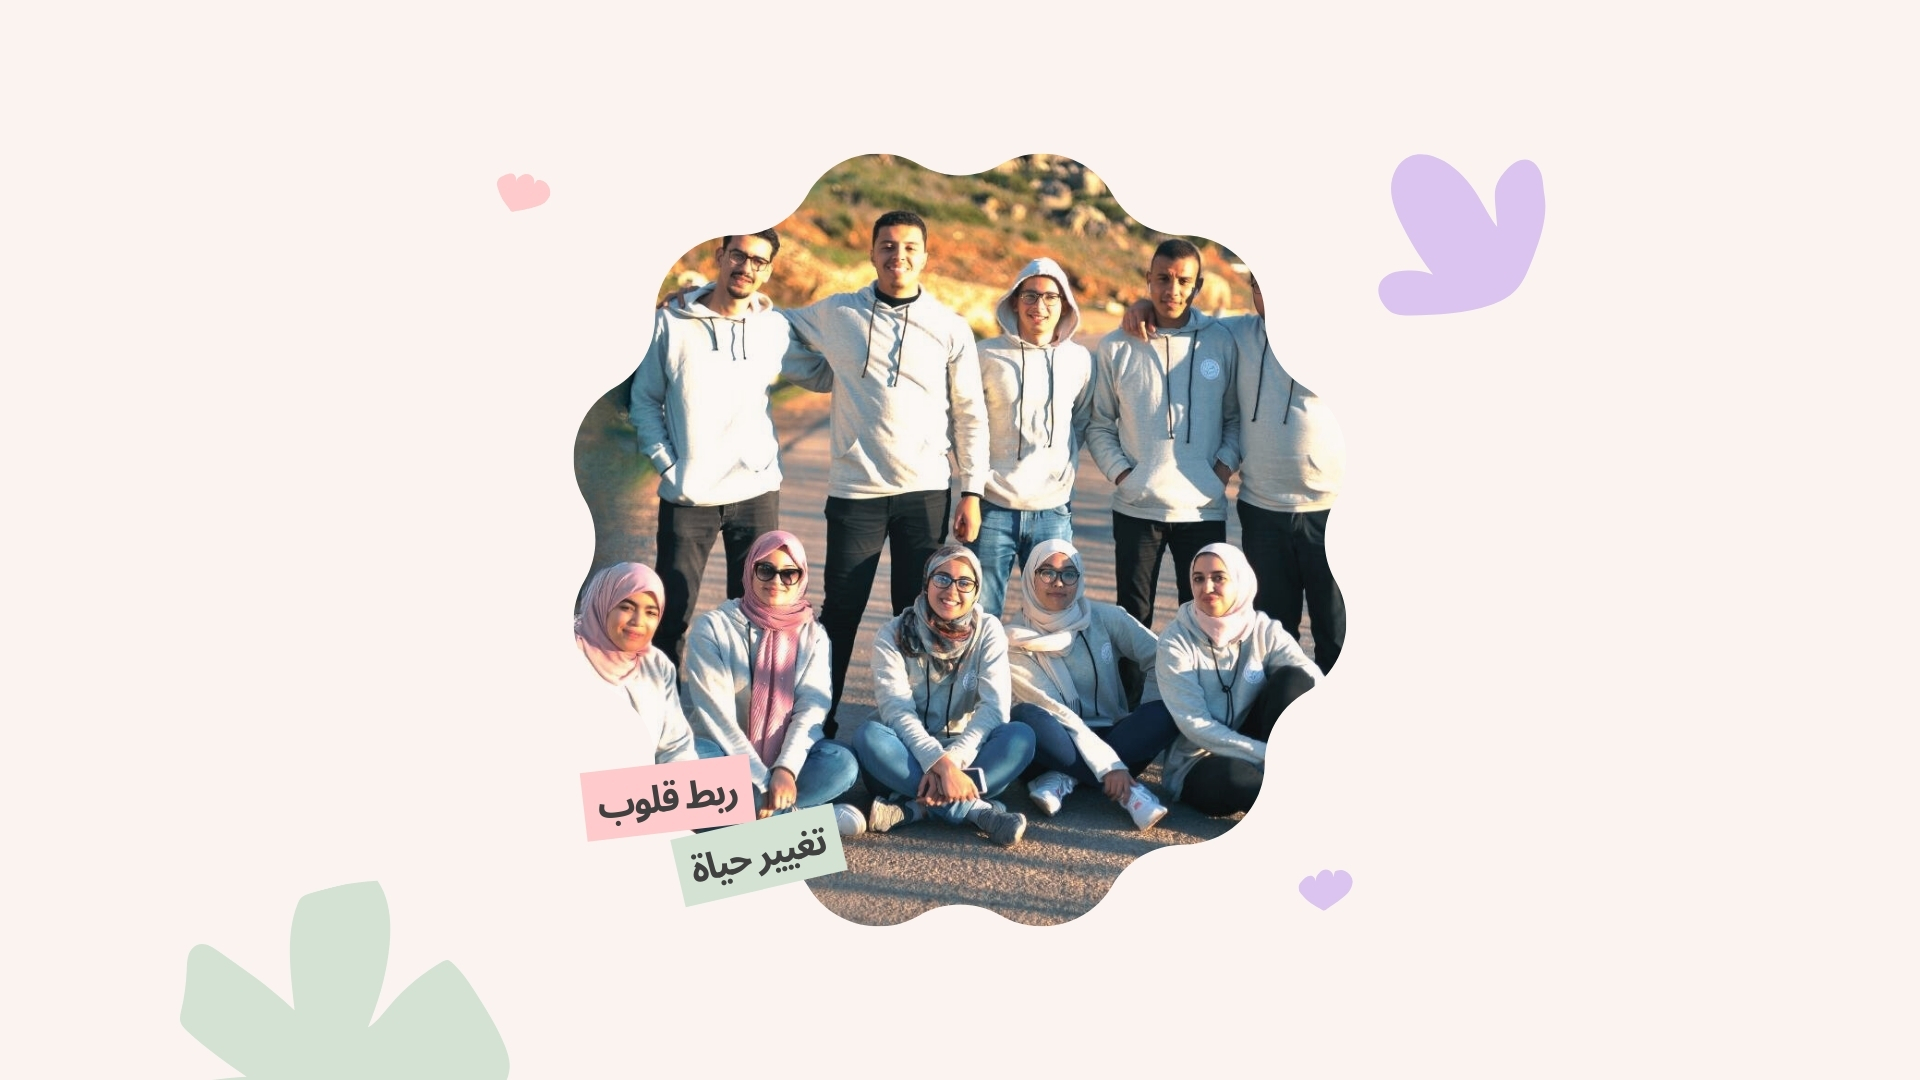
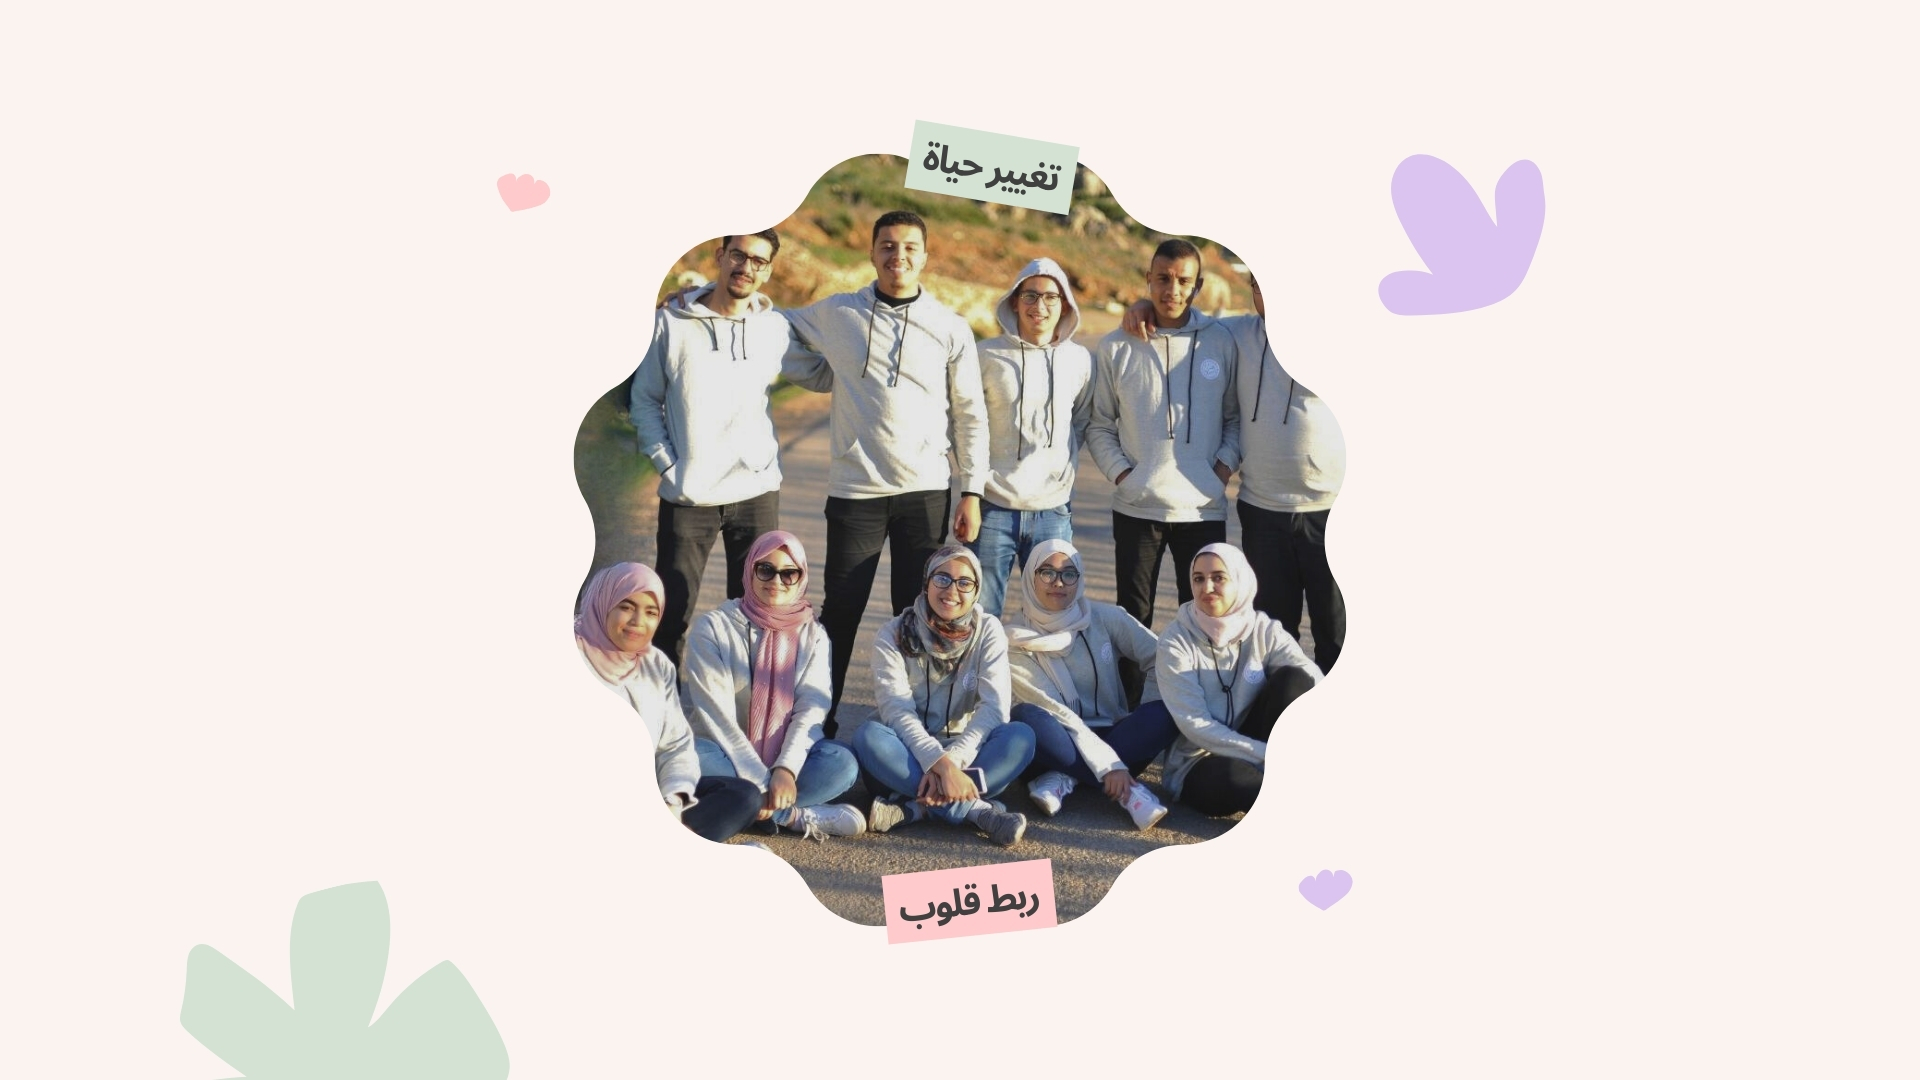
Update font + add padding to gallery images

diff --git a/_includes/portfolio.html b/_includes/portfolio.html
@@ -1,7 +1,7 @@
 <section class="no-padding" id="portfolio">
     <div class="container-fluid">
-        <div class="row no-gutter">
-            <div class="col-lg-4 col-sm-6">
+        <div class="row">
+            <div class="col-lg-4 col-sm-6 gallery-image-container">
                 <a href="https://www.facebook.com/Sonna3Basma/posts/pfbid0348vdYQ6Lno4S7W3ggTB5xWFRCWwVc4xgJLzH2PXQGdfaEcty7iMzVWdbjRrNmozRl" target="_blank" class="portfolio-box">
                     <img src="img/portfolio/01-dif2-jami3-2018.jpg" class="img-responsive gallery-image-item" alt="">
                     <div class="portfolio-box-caption">
@@ -13,7 +13,7 @@
                     </div>
                 </a>
             </div>
-            <div class="col-lg-4 col-sm-6">
+            <div class="col-lg-4 col-sm-6 gallery-image-container">
                 <a href="https://www.facebook.com/watch/?v=206881833238126" target="_blank" class="portfolio-box">
                     <img src="img/portfolio/02-journée-femme-2018.jpg" class="img-responsive gallery-image-item" alt="">
                     <div class="portfolio-box-caption">
@@ -25,7 +25,7 @@
                     </div>
                 </a>
             </div>
-            <div class="col-lg-4 col-sm-6">
+            <div class="col-lg-4 col-sm-6 gallery-image-container">
                 <a href="https://www.facebook.com/Sonna3Basma/posts/pfbid0R1jrCazrehceTsygstaAZDRBorDknixCdt26fSkzBKG4XVBKJwW2Yrfmb89gmQCtl" target="_blank" class="portfolio-box">
                     <img src="img/portfolio/03-hannae-2018.jpg" class="img-responsive gallery-image-item" alt="">
                     <div class="portfolio-box-caption">
@@ -37,7 +37,7 @@
                     </div>
                 </a>
             </div>
-            <div class="col-lg-4 col-sm-6">
+            <div class="col-lg-4 col-sm-6 gallery-image-container">
                 <a href="https://www.facebook.com/Sonna3Basma/posts/pfbid0HLGhjuS9pz75nMS8oiioPEnKYGBGz2ogWXxLavQGyzVTt6kEVknFkjLoWDtf4JRGl" target="_blank" class="portfolio-box">
                     <img src="img/portfolio/04-dar-hayat-2018.jpg" class="img-responsive gallery-image-item" alt="">
                     <div class="portfolio-box-caption">
@@ -49,7 +49,7 @@
                     </div>
                 </a>
             </div>
-            <div class="col-lg-4 col-sm-6">
+            <div class="col-lg-4 col-sm-6 gallery-image-container">
                 <a href="https://www.facebook.com/Sonna3Basma/photos/a.298629617396680/298630237396618/" target="_blank" class="portfolio-box">
                     <img src="img/portfolio/05-rentrée-scolaire-2018.jpg" class="img-responsive gallery-image-item" alt="">
                     <div class="portfolio-box-caption">
@@ -61,7 +61,7 @@
                     </div>
                 </a>
             </div>
-            <div class="col-lg-4 col-sm-6">
+            <div class="col-lg-4 col-sm-6 gallery-image-container">
                 <a href="https://www.facebook.com/Sonna3Basma/photos/a.342156579710650/342157929710515/" target="_blank" class="portfolio-box">
                     <img src="img/portfolio/06-caravane-humanitaire-2018.jpg" class="img-responsive gallery-image-item" alt="">
                     <div class="portfolio-box-caption">
@@ -73,7 +73,7 @@
                     </div>
                 </a>
             </div>
-            <div class="col-lg-4 col-sm-6">
+            <div class="col-lg-4 col-sm-6 gallery-image-container">
                 <a href="https://www.facebook.com/Sonna3Basma/posts/pfbid02dqMHgZjEKtunv2adSYtQu7cDC8Kg7KPgjcMMc2PpcjQdDkMSjrRTAKJvsyiBBTTrl" target="_blank" class="portfolio-box">
                     <img src="img/portfolio/07-première-année-2019.jpg" class="img-responsive gallery-image-item" alt="">
                     <div class="portfolio-box-caption">
@@ -85,7 +85,7 @@
                     </div>
                 </a>
             </div>
-            <div class="col-lg-4 col-sm-6">
+            <div class="col-lg-4 col-sm-6 gallery-image-container">
                 <a href="https://www.facebook.com/Sonna3Basma/posts/pfbid05o99JAB1i21AdnKyCCxArKzgnpeTNrbyVGWuHT9bvwfGtJYDteSWKX5VDkKrWq1Dl" target="_blank" class="portfolio-box">
                     <img src="img/portfolio/08-ftour-dar-hayat-2019.jpg" class="img-responsive gallery-image-item" alt="">
                     <div class="portfolio-box-caption">
@@ -97,7 +97,7 @@
                     </div>
                 </a>
             </div>
-            <div class="col-lg-4 col-sm-6">
+            <div class="col-lg-4 col-sm-6 gallery-image-container">
                 <a href="https://www.facebook.com/Sonna3Basma/posts/pfbid02tEv85wZoSc8HZVqMYhf92AENtyXdKocrQ579YshD7QmmVEPTB8uDDSQx7Prjuorjl" target="_blank" class="portfolio-box">
                     <img src="img/portfolio/09-hannae-2019.jpg" class="img-responsive gallery-image-item" alt="">
                     <div class="portfolio-box-caption">
@@ -109,7 +109,7 @@
                     </div>
                 </a>
             </div>
-            <div class="col-lg-4 col-sm-6">
+            <div class="col-lg-4 col-sm-6 gallery-image-container">
                 <a href="https://www.facebook.com/Sonna3Basma/posts/pfbid02UydGyDTPGqssiHuXsbuZYdMv1rhK2RzJ8iYXh7Be1aMvQ811Ntu8mKwaSGmEZz8gl" target="_blank" class="portfolio-box">
                     <img src="img/portfolio/10-far7at-eid-2019.jpg" class="img-responsive gallery-image-item" alt="">
                     <div class="portfolio-box-caption">
@@ -121,7 +121,7 @@
                     </div>
                 </a>
             </div>
-            <div class="col-lg-4 col-sm-6">
+            <div class="col-lg-4 col-sm-6 gallery-image-container">
                 <a href="https://www.facebook.com/Sonna3Basma/posts/pfbid02FAu2FFjpU8bwWZRB3yEY8ce1VDztTzEfSjsyBuP6wh5YDxYAMjjVAuwygU97MwCal" target="_blank" class="portfolio-box">
                     <img src="img/portfolio/11-9ofat-tadamun-2019.jpg" class="img-responsive gallery-image-item" alt="">
                     <div class="portfolio-box-caption">
@@ -133,7 +133,7 @@
                     </div>
                 </a>
             </div>
-            <div class="col-lg-4 col-sm-6">
+            <div class="col-lg-4 col-sm-6 gallery-image-container">
                 <a href="https://www.facebook.com/Sonna3Basma/posts/pfbid02x71sbpHLTSi1pn11Lmft8fPpVMxDeaw4X7NbC8RXYGqv13yVDCXezatTiFWdESLcl" target="_blank" class="portfolio-box">
                     <img src="img/portfolio/12-vetements-eid.jpg" class="img-responsive gallery-image-item" alt="">
                     <div class="portfolio-box-caption">
@@ -145,7 +145,7 @@
                     </div>
                 </a>
             </div>
-            <div class="col-lg-4 col-sm-6">
+            <div class="col-lg-4 col-sm-6 gallery-image-container">
                 <a href="https://www.facebook.com/Sonna3Basma/posts/pfbid02mDtdoqJsFJcvyc4pFURPrPR8GBZQbh2oyq9DeGifizcUXJvdoRH3X8tphHiH4RAol" target="_blank" class="portfolio-box">
                     <img src="img/portfolio/13-9uffat-ramdan-2021.jpg" class="img-responsive gallery-image-item" alt="">
                     <div class="portfolio-box-caption">
@@ -157,7 +157,7 @@
                     </div>
                 </a>
             </div>
-            <div class="col-lg-4 col-sm-6">
+            <div class="col-lg-4 col-sm-6 gallery-image-container">
                 <a href="https://www.instagram.com/p/Cr8-s43Nsih/" target="_blank" class="portfolio-box">
                     <img src="img/portfolio/14-far7at-eid-2023.jpg" class="img-responsive gallery-image-item" alt="">
                     <div class="portfolio-box-caption">

diff --git a/_includes/head.html b/_includes/head.html
@@ -19,6 +19,7 @@
     <link rel="stylesheet" href="css/bootstrap.min.css" type="text/css">
 
     <!-- Custom Fonts -->
+    <link href="https://fonts.googleapis.com/css2?family=Marhey:wght@300..700&display=swap" rel="stylesheet" type='text/css'>
     <link href='https://fonts.googleapis.com/css?family=Open+Sans:300italic,400italic,600italic,700italic,800italic,400,300,600,700,800' rel='stylesheet' type='text/css'>
     <link href='https://fonts.googleapis.com/css?family=Merriweather:400,300,300italic,400italic,700,700italic,900,900italic' rel='stylesheet' type='text/css'>
     <link rel="stylesheet" href="font-awesome/css/font-awesome.min.css" type="text/css">

diff --git a/_sass/_base.scss b/_sass/_base.scss
@@ -85,10 +85,18 @@ aside {
     gap: 10px;
 }
 
+.gallery-image-container {
+    padding: 5px;
+}
+
 .gallery-image-item {
     width: 100%;
     height: 300px;
     object-fit: cover;
+}
+
+.page-scroll {
+    text-align: end;
 }
 
 // Navigation
@@ -272,7 +280,7 @@ header {
             width: 100%;
             text-align: center;
             position: absolute;
-            top: 25%;
+            top: 75%;
             transform: translateY(-50%);
             .project-category,
             .project-name {

diff --git a/_sass/_mixins.scss b/_sass/_mixins.scss
@@ -57,10 +57,10 @@
 
 @mixin sans-serif-font()
 {
-	font-family: 'Open Sans', 'Helvetica Neue', Arial, sans-serif;
+	font-family: 'Marhey', 'Open Sans', 'Helvetica Neue', Arial, sans-serif;
 }
 
 @mixin serif-font()
 {
-	font-family: 'Merriweather', 'Helvetica Neue', Arial, sans-serif;
+	font-family: 'Marhey', 'Merriweather', 'Helvetica Neue', Arial, sans-serif;
 }
